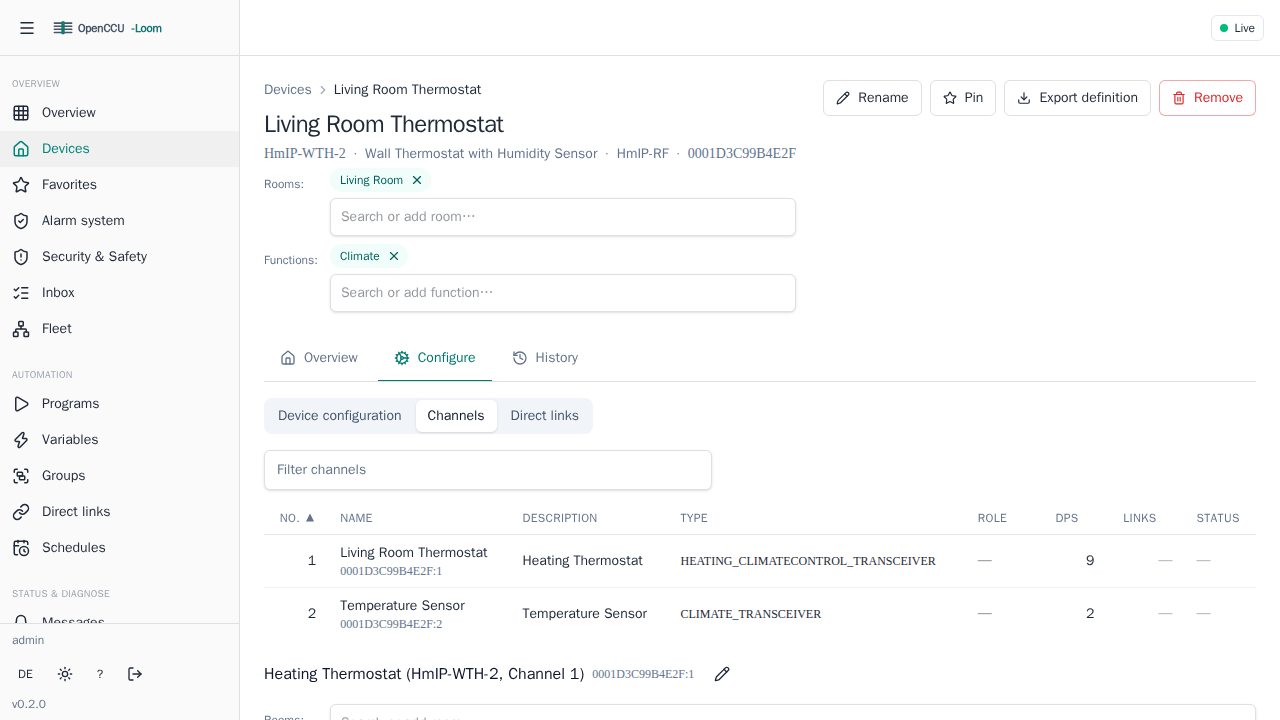
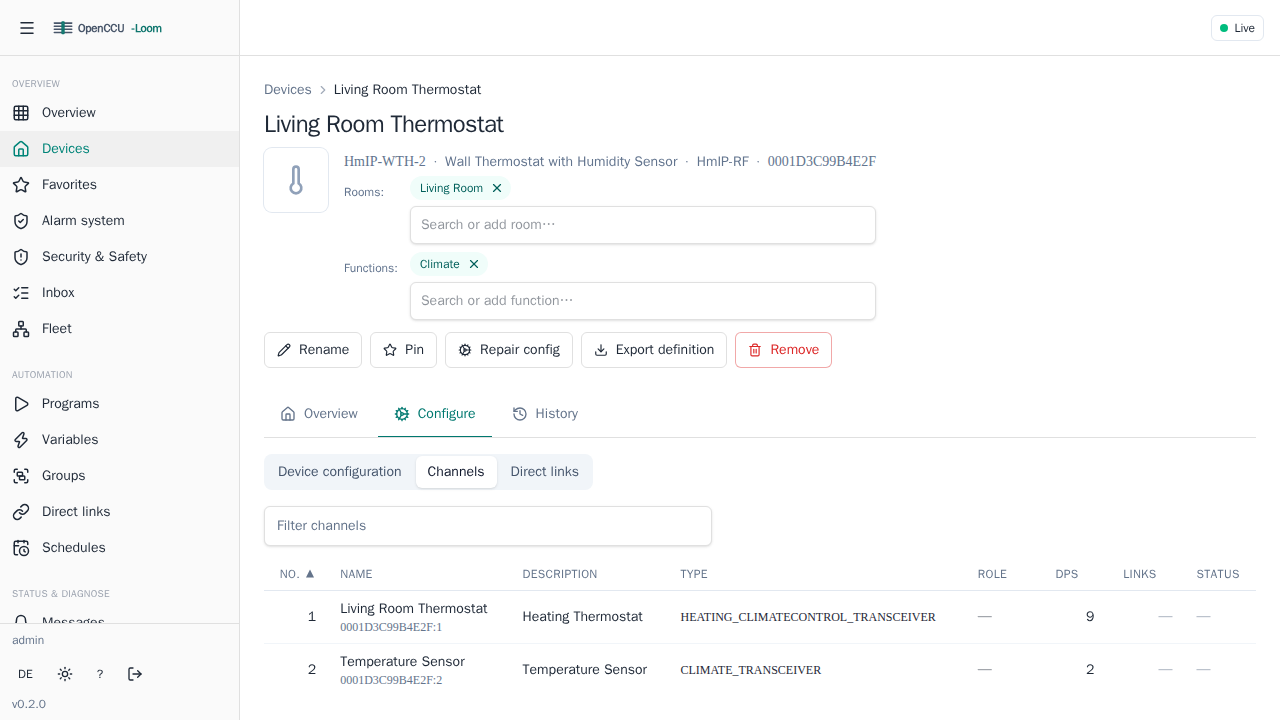
test(ui): browser test and baselines for the add-device dialog (#926)
* test(ui): browser test and baselines for the add-device dialog

The dialog shipped without a Playwright spec or a visual baseline. The
new spec covers opening it from the device list and from the inbox,
that starting pairing names the chosen central when two share an
interface name, accepting a held device inside the dialog, the
controls each interface type offers, and the dialog in light and dark.

The macOS baselines are refreshed for local runs: the four views the
dialog work changed (device list, inbox onboarding), and ten more that
differed from what the current browser build renders by 3 to 11 pixels
each. The published device-list screenshot shows the new button.

* docs: re-render three published screenshots

The device-detail screenshot still showed the earlier header: actions
at the top right, no device icon and no "Repair config" action. The
channel-config and Matter-pairing screenshots differ from the current
render by a few pixels (4, and 123 around the pairing countdown).

All three are taken from the CI container run, as the published images
are.

---------

diff --git a/assets/ui/tests/e2e/add-device.spec.ts b/assets/ui/tests/e2e/add-device.spec.ts
@@ -1,0 +1,214 @@
+import { test, expect } from './helpers/fixtures';
+import type { Page } from './helpers/fixtures';
+import { mockAllApis, addStylesForStableScreenshots } from './helpers/mock-api';
+
+/**
+ * The "Add device" dialog: the one place pairing starts.
+ *
+ * It is opened from the device list and from the inbox, and it must behave
+ * the same from both: the pairing controls for the chosen interface, an
+ * inline accept for every device the daemon holds back, and the devices
+ * that joined while it was open. Two centrals can expose the same
+ * interface name, so starting pairing has to say which central it means —
+ * without that the daemon picks the first match and the operator pairs on
+ * the wrong box.
+ *
+ * Every test here overrides the install-mode list and the inbox on top of
+ * the shared mock layer, so the state under test is spelled out locally.
+ */
+
+/** Fixed so any rendered timestamp does not move between runs. */
+const SEEN = Math.floor(new Date('2025-12-28T08:00:00Z').getTime() / 1000);
+
+const PENDING = {
+  address: '0002PEND',
+  model: 'HmIP-STH',
+  interface: 'HmIP-RF',
+  serial: '0002PEND',
+  manufacturer: 'eQ-3',
+  central: 'ccu1',
+  first_seen: SEEN,
+  pending_creation: true,
+};
+
+type InterfaceEntry = {
+  interface: string;
+  central?: string;
+  active: boolean;
+  seconds: number;
+  observed?: boolean;
+};
+
+/**
+ * Serves the install-mode list and records every POST body sent to it, so a
+ * test can assert what starting pairing actually asked the daemon for.
+ */
+async function mockInstallMode(page: Page, entries: InterfaceEntry[]): Promise<unknown[]> {
+  const posts: unknown[] = [];
+  await page.route('**/api/v1/install-mode/interfaces', (route) => {
+    const req = route.request();
+    if (req.method() === 'POST') {
+      posts.push(req.postDataJSON());
+      return route.fulfill({ status: 204 });
+    }
+    return route.fulfill({ json: entries });
+  });
+  return posts;
+}
+
+async function mockInbox(page: Page, devices: unknown[]) {
+  await page.route('**/api/v1/inbox', (route) => route.fulfill({ json: devices }));
+}
+
+async function setTheme(page: Page, theme: 'light' | 'dark') {
+  await page.addInitScript(
+    (t) => {
+      localStorage.setItem(
+        'openccu-loom.prefs.v1',
+        JSON.stringify({
+          theme: t,
+          locale: 'en',
+          navCollapsed: false,
+          expertMode: false,
+        }),
+      );
+    },
+    theme,
+  );
+}
+
+async function openFromDeviceList(page: Page) {
+  await page.goto('http://localhost:5173/app/#/devices');
+  await page.waitForSelector('#main');
+  await page.getByRole('button', { name: 'Add device', exact: true }).click();
+  const dialog = page.getByRole('dialog', { name: 'Add device' });
+  await expect(dialog).toBeVisible({ timeout: 10000 });
+  return dialog;
+}
+
+test.describe('Add device dialog', () => {
+  test.beforeEach(async ({ page }) => {
+    await mockAllApis(page);
+  });
+
+  test('opens from the device list with the pairing controls', async ({ page }) => {
+    await mockInstallMode(page, [{ interface: 'HmIP-RF', active: false, seconds: 0 }]);
+    await mockInbox(page, []);
+
+    const dialog = await openFromDeviceList(page);
+    await expect(dialog.getByRole('button', { name: 'Start pairing' })).toBeVisible();
+  });
+
+  test('opens from the inbox, whose header has no pairing form of its own', async ({ page }) => {
+    await mockInstallMode(page, [{ interface: 'HmIP-RF', active: false, seconds: 0 }]);
+    await mockInbox(page, []);
+
+    await page.goto('http://localhost:5173/app/#/inbox');
+    await page.waitForSelector('#main');
+    const open = page.getByRole('button', { name: 'Add device', exact: true });
+    await expect(open).toBeVisible({ timeout: 10000 });
+
+    // Pairing starts in the dialog only: before it opens, nothing on the
+    // page offers a pairing window or a targeted teach-in.
+    await expect(page.getByRole('button', { name: 'Start pairing' })).toHaveCount(0);
+    await expect(page.getByText('Pair one specific device')).toHaveCount(0);
+
+    await open.click();
+    const dialog = page.getByRole('dialog', { name: 'Add device' });
+    await expect(dialog).toBeVisible();
+    await expect(dialog.getByRole('button', { name: 'Start pairing' })).toBeVisible();
+    // The one control on the page is the dialog's.
+    await expect(page.getByRole('button', { name: 'Start pairing' })).toHaveCount(1);
+  });
+
+  test('starting pairing names the chosen central', async ({ page }) => {
+    const posts = await mockInstallMode(page, [
+      { central: 'ccu1', interface: 'HmIP-RF', active: false, seconds: 0 },
+      { central: 'box', interface: 'HmIP-RF', active: false, seconds: 0 },
+    ]);
+    await mockInbox(page, []);
+
+    const dialog = await openFromDeviceList(page);
+    // The second of two same-named interfaces is only reachable when the
+    // request carries its central.
+    await dialog.getByRole('button', { name: 'Interface' }).click();
+    await page.getByRole('option', { name: 'HmIP-RF · box' }).click();
+    await dialog.getByRole('button', { name: 'Start pairing' }).click();
+
+    await expect.poll(() => posts.length).toBe(1);
+    expect(posts[0]).toMatchObject({ central: 'box', interface: 'HmIP-RF', active: true });
+  });
+
+  test('a held device is accepted inside the dialog with its name', async ({ page }) => {
+    await mockInstallMode(page, [{ interface: 'HmIP-RF', active: false, seconds: 0 }]);
+    await mockInbox(page, [PENDING]);
+    const accepts: { url: string; body: unknown }[] = [];
+    await page.route('**/api/v1/devices/*/accept*', (route) => {
+      const req = route.request();
+      accepts.push({ url: req.url(), body: req.postDataJSON() });
+      return route.fulfill({ status: 204 });
+    });
+
+    const dialog = await openFromDeviceList(page);
+    const held = dialog.getByTestId('add-device-acceptable');
+    await expect(held.getByText('0002PEND')).toBeVisible();
+    await held.getByRole('textbox', { name: 'Name' }).fill('Bathroom climate');
+    await held.getByRole('button', { name: 'Accept' }).click();
+
+    await expect.poll(() => accepts.length).toBe(1);
+    const url = new URL(accepts[0].url);
+    expect(url.pathname).toBe('/api/v1/devices/0002PEND/accept');
+    expect(url.searchParams.get('central')).toBe('ccu1');
+    expect(accepts[0].body).toEqual({ name: 'Bathroom climate' });
+  });
+
+  test('offers the controls that apply to the chosen interface', async ({ page }) => {
+    await mockInstallMode(page, [
+      { interface: 'HmIP-RF', active: false, seconds: 0 },
+      { interface: 'BidCos-Wired', active: false, seconds: 0 },
+    ]);
+    await mockInbox(page, []);
+
+    const dialog = await openFromDeviceList(page);
+
+    // HmIP radio: a pairing window, and SGTIN + key as the targeted way;
+    // the HmIP radio has no pairing by serial.
+    await expect(dialog.getByRole('button', { name: 'Start pairing' })).toBeVisible();
+    await dialog.getByText('Pair one specific device').click();
+    await expect(dialog.getByRole('textbox', { name: 'SGTIN' })).toBeVisible();
+    await expect(dialog.getByText('Pair by serial:')).toHaveCount(0);
+    await expect(dialog.getByRole('button', { name: 'Search wired bus' })).toHaveCount(0);
+
+    // Wired bus: a bus search instead of a pairing window.
+    await dialog.getByRole('button', { name: 'Interface' }).click();
+    await page.getByRole('option', { name: 'BidCos-Wired' }).click();
+    await expect(dialog.getByRole('button', { name: 'Search wired bus' })).toBeVisible();
+    await expect(dialog.getByRole('button', { name: 'Start pairing' })).toHaveCount(0);
+  });
+});
+
+// ---------------------------------------------------------------------------
+// Visual regression
+//
+// Scoped to the dialog panel: the dialog is what is under test, and a
+// full-page baseline would fail for every unrelated change to the device
+// list behind the overlay.
+// ---------------------------------------------------------------------------
+
+test.describe('Add device dialog - visual', () => {
+  for (const theme of ['light', 'dark'] as const) {
+    test(`add device dialog ${theme}`, async ({ page }) => {
+      await mockAllApis(page);
+      await setTheme(page, theme);
+      await mockInstallMode(page, [{ interface: 'HmIP-RF', active: false, seconds: 0 }]);
+      await mockInbox(page, [PENDING]);
+
+      const dialog = await openFromDeviceList(page);
+      await expect(dialog.getByTestId('add-device-acceptable')).toBeVisible();
+      await expect(dialog.getByText('No new device has joined yet.')).toBeVisible();
+      await page.waitForTimeout(500);
+      await addStylesForStableScreenshots(page);
+      await expect(dialog.locator(':scope > div')).toHaveScreenshot(`add-device-dialog-${theme}.png`);
+    });
+  }
+});
